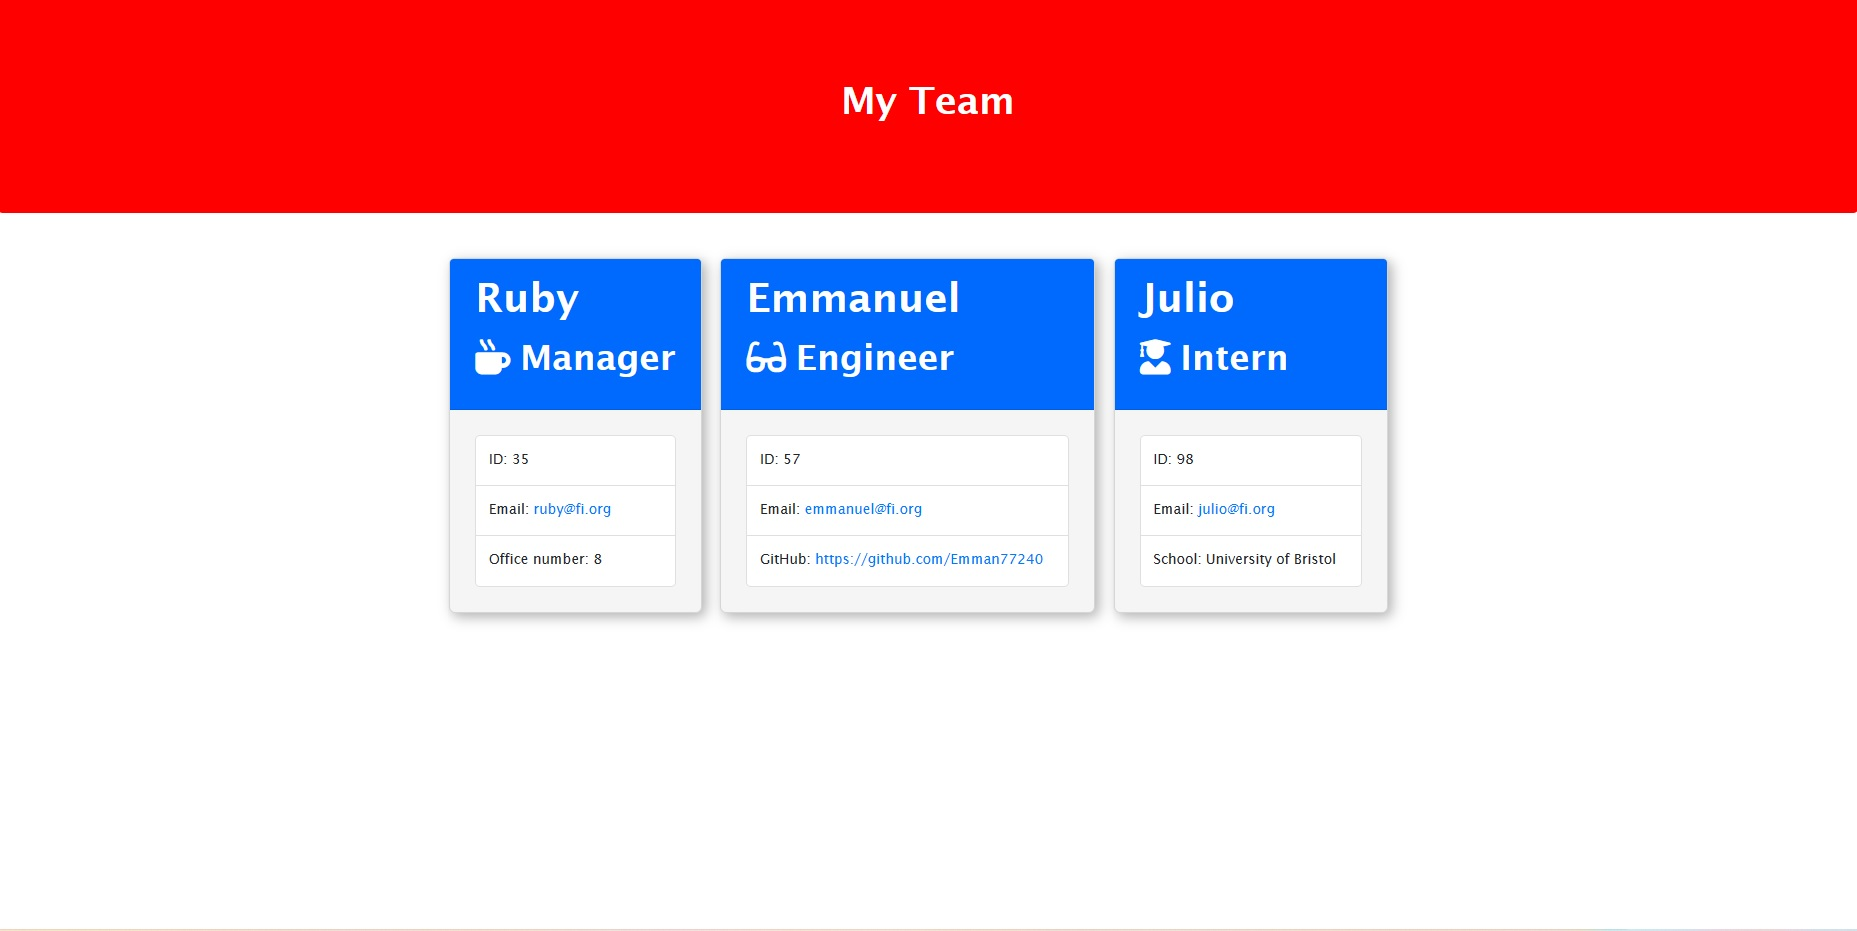
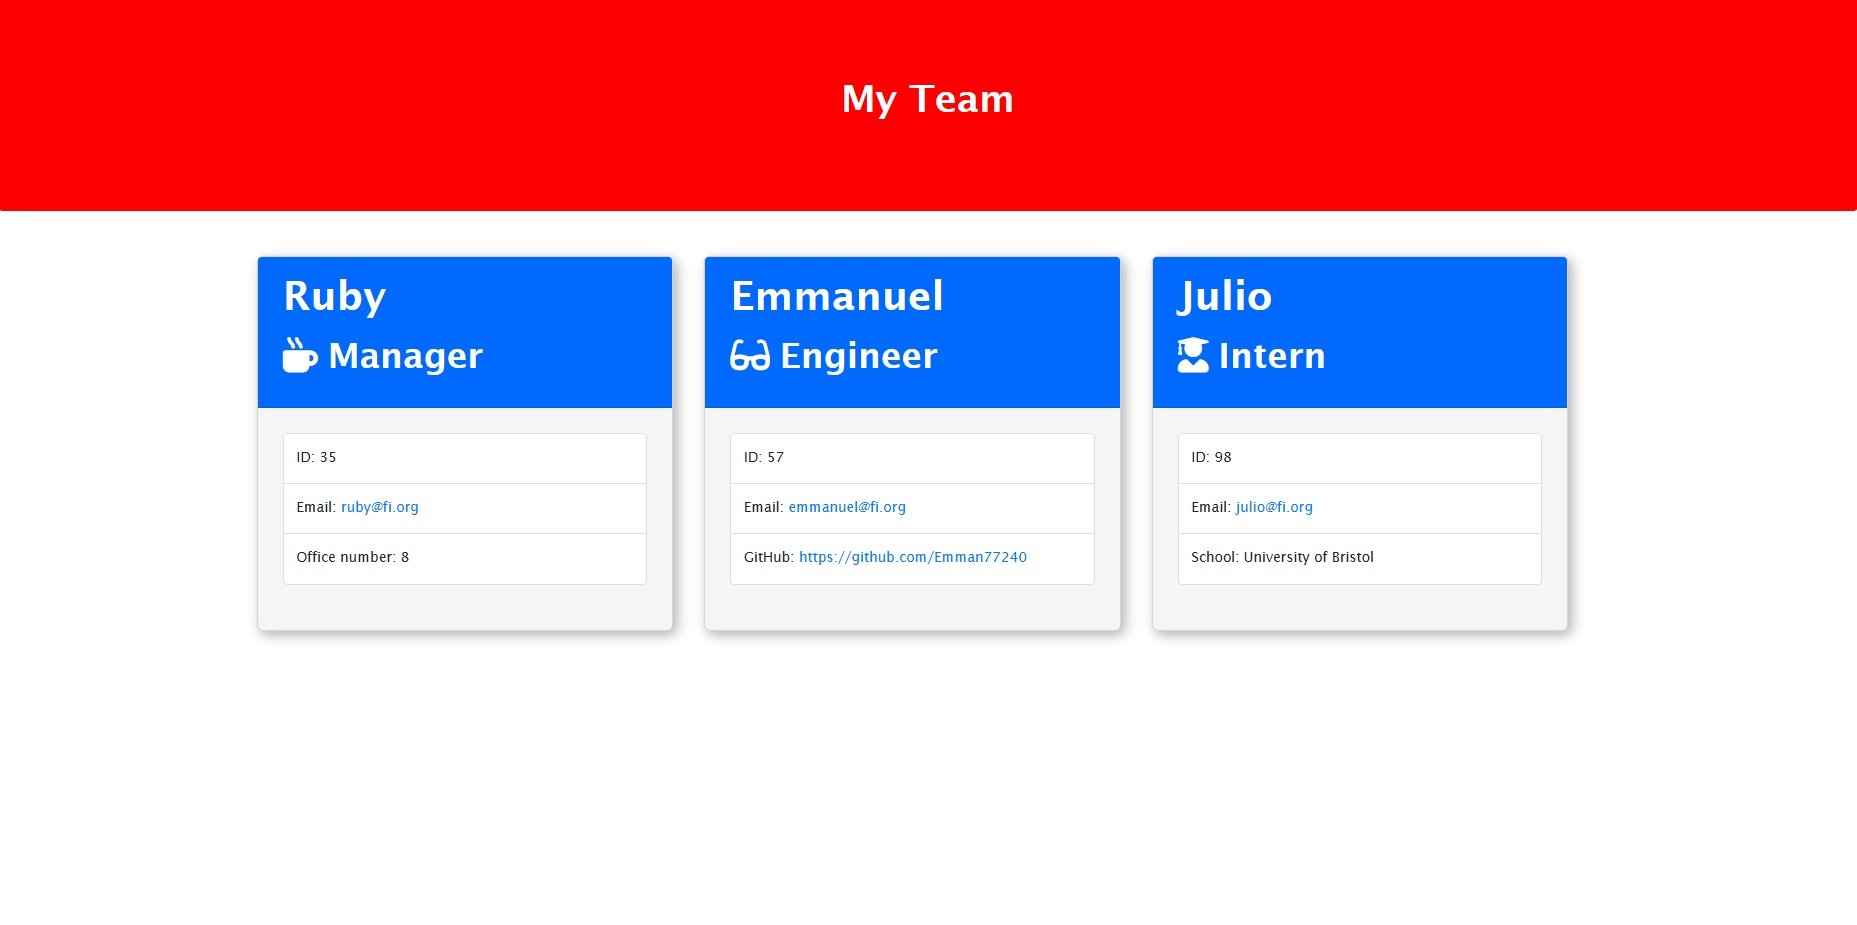
Modified class constructors to pass tests

diff --git a/lib/Engineer.js b/lib/Engineer.js
@@ -1,38 +1,26 @@
 // TODO: Write code to define and export the Engineer class.  HINT: This class should inherit from Employee.
-import Employee from '../lib/Employee.js';
+const Employee = require('../lib/Employee.js');
 
-export default class Engineer extends Employee {
-  constructor(name, id, email, role, github) {
+class Engineer extends Employee {
+  constructor(name, id, email, github) {
     // Rather than doing this.name, this.id, etc. for all classes, we can just use the default properties from the
     // Employee class which contains properties that are valid for all other classes
     super(name, id, email);
-    // If the role property is empty when declaring new Intern object
-    if (role == '') {
-      // Have the role == Employee
-      this.role = 'Employee';
-    } else {
-      // Else have it equal whatever was type in the property
-      this.role = role;
-    }
+    
     // The below property is unique to this class so we'll assign it from here
     this.github = github;
   }
 
   // Return the Github link
   getGithub() {
-    return `https://github.com/${this.github}`;
+    return this.github;
   }
 
   // Override the default role (if a new role is assigned)
   getRole() {
-    // If the role is empty (when declaring the new object), use the default parent role
-    if (this.role == '') {
-      return 'Employee';
-    } else {
-      // Else return the current role
-      return this.role;
-    }
+    // Set role from parent class
+    return this.role = "Engineer";
   }
 }
 
-//module.exports = Engineer;
+module.exports = Engineer;

diff --git a/lib/Manager.js b/lib/Manager.js
@@ -1,20 +1,13 @@
 // TODO: Write code to define and export the Manager class. HINT: This class should inherit from Employee.
-import Employee from '../lib/Employee.js';
+const Employee = require('../lib/Employee.js');
 
 
-export default class Manager extends Employee {
-  constructor(name, id, email, role, officeNumber) {
+class Manager extends Employee {
+  constructor(name, id, email, officeNumber) {
     // Rather than doing this.name, this.id, etc. for all classes, we can just use the default properties from the
     // Employee class which contains properties that are valid for all other classes
     super(name, id, email);
-    // If the role property is empty when declaring new Intern object
-    if (role == '') {
-      // Have the role == Employee
-      this.role = 'Employee';
-    } else {
-      // Else have it equal whatever was type in the property
-      this.role = role;
-    }
+    
     // The below property is unique to this class so we'll assign it from here
     this.officeNumber = officeNumber;
   }
@@ -25,14 +18,11 @@ export default class Manager extends Employee {
 
   // Override the default role (if a new role is assigned)
   getRole() {
-    // If the role is empty (when declaring the new object), use the default parent role
-    if (this.role == '') {
-      return 'Employee';
-    } else {
-      // Else return the current role
-      return this.role;
-    }
+    // Call parent class to access role method
+    return this.role = "Manager";
+    
+    
   }
 }
 
-//module.exports = Manager;
+module.exports = Manager;

diff --git a/lib/Intern.js b/lib/Intern.js
@@ -1,19 +1,12 @@
 // TODO: Write code to define and export the Intern class.  HINT: This class should inherit from Employee.
-import Employee from '../lib/Employee.js';
+const Employee = require('../lib/Employee.js');
 
-export default class Intern extends Employee {
-  constructor(name, id, email, role, school) {
+class Intern extends Employee {
+  constructor(name, id, email, school) {
     // Rather than doing this.name, this.id, etc. for all classes, we can just use the default properties from the
     // Employee class which contains properties that are valid for all other classes
     super(name, id, email);
-    // If the role property is empty when declaring new Intern object
-    if (role == '') {
-      // Have the role == Employee
-      this.role = 'Employee';
-    } else {
-      // Else have it equal whatever was type in the property
-      this.role = role;
-    }
+    
     // The below property is unique to this class so we'll assign it from here
     this.school = school;
   }
@@ -24,12 +17,10 @@ export default class Intern extends Employee {
 
   // Override the default role (if a new role is assigned)
   getRole() {
-    // If the role is empty (when declaring the new object), use the default parent role
-    if (this.role == '') {
-      return 'Employee';
-    } else {
-      // Else return the current role
-      return this.role;
-    }
+    // Override role from parent class
+    return this.role = "Intern";
   }
 }
+
+
+module.exports = Intern;

diff --git a/lib/Employee.js b/lib/Employee.js
@@ -1,18 +1,11 @@
 // TODO: Write code to define and export the Employee class
-export default class Employee {
-    constructor(name, id, email, role = 'Employee') {
+class Employee {
+    constructor(name, id, email) {
       // All the properties below will be passed down to the children classes as default properties
       this.name = name;
       this.id = id;
       this.email = email;
-      // If the role property is empty when declaring new Intern object
-      if (role == '') {
-        // Have the role == Employee
-        this.role = 'Employee';
-      } else {
-        // Else have it equal whatever was type in the property
-        this.role = role;
-      }
+      this.role = "Employee";
     }
   
     // All methods below will return the appropriate data for each child class
@@ -33,4 +26,4 @@ export default class Employee {
     }
   }
   
-  //module.exports = Employee;
+  module.exports = Employee;

diff --git a/output/style.css b/output/style.css
@@ -26,6 +26,7 @@
   /* Team profiles */
   .team-area {
     margin-top: 20px;
+    height: 300px;
     display: flex;
     justify-content: center;
     flex-wrap: wrap;
@@ -33,8 +34,10 @@
   .employee-card {
     background-color: rgb(245, 245, 245);
     border-radius: 5px;
-    margin-right: 15px;
+    margin-right: 25px;
     box-shadow: 3px 3px 10px 0 rgba(0, 0, 0, 0.3);
+    width: 30%;
+
   }
   
   /* Team head section */

diff --git a/__tests__/Engineer.test.js b/__tests__/Engineer.test.js
@@ -1,7 +1,7 @@
-const Engineer = require("../lib/Engineer");
+const Engineer = require("../lib/Engineer.js");
 
 test("Can set GitHUb account via constructor", () => {
-  const testValue = "GitHubUser";
+  const testValue = "https://github.com/GitHubUser";
   const e = new Engineer("Foo", 1, "test@test.com", testValue);
   expect(e.github).toBe(testValue);
 });

diff --git a/__tests__/Manager.test.js b/__tests__/Manager.test.js
@@ -1,5 +1,4 @@
-const Manager = require("../lib/Manager");
-const Employee = require("../lib/Employee");
+const Manager = require("../lib/Manager.js");
 
 test("Can set office number via constructor argument", () => {
   const testValue = 100;

diff --git a/__tests__/Employee.test.js b/__tests__/Employee.test.js
@@ -1,4 +1,4 @@
-const Employee = require("../lib/Employee");
+const Employee = require("../lib/Employee.js");
 
 test("Can instantiate Employee instance", () => {
   const e = new Employee();

diff --git a/__tests__/Intern.test.js b/__tests__/Intern.test.js
@@ -1,4 +1,4 @@
-const Intern = require("../lib/Intern");
+const Intern = require("../lib/Intern.js");
 
 test("Can set school via constructor", () => {
   const testValue = "UCLA";

diff --git a/README.md b/README.md
@@ -3,8 +3,7 @@
 
 
 ## Description
-The code in this repository generates a team's profile page from inputs added by the user via the terminal. The inquirer module grabs user input, while the file system module creates the files.  This application prompts for team members which include a manager, engineers and interns. A live demo can be found [here](https://emman77240.github.io/Team-Profile-Generator/).
-
+The code in this repository generates a team's profile page from inputs added by the user via the terminal. The inquirer module grabs user input, while the file system module creates the files.  This application prompts for team members which include a manager, engineers and interns. 
 
 ## Installation
 
